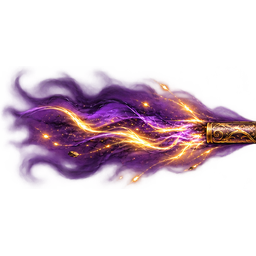
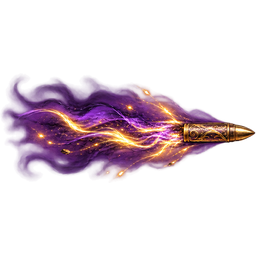
Export complete isolated gunslinger effects without cross-cell fragments

Changed region(s): [[0.0, 0.25, 1.0, 0.7188]]

diff --git a/tools/pack-gunslinger.py b/tools/pack-gunslinger.py
@@ -137,17 +137,39 @@ im=Image.open(SOURCE/'icons.png').convert('RGBA');w,h=im.size
 for i,name in enumerate(['disparo-sombrio','rajada-do-crepusculo','instinto-noturno','eclipse','dash']):
     r,c=divmod(i,3);side=min(w//3,h//2);x=round(c*w/3+(w/3-side)/2);y=round(r*h/2+(h/2-side)/2)
     im.crop((x,y,x+side,y+side)).resize((256,256),Image.Resampling.LANCZOS).save(folder/'icons'/f'{name}.png')
-im=Image.open(SOURCE/'vfx-v30.png').convert('RGBA');w,h=im.size
-for name,box in [('bullet',(0,0,.5,.5)),('muzzle',(.5,0,1,.475)),('impact',(0,.5,.5,1)),('aura',(.5,.5,1,1))]:
-    effect=im.crop(tuple(round(v*(w if i%2==0 else h)) for i,v in enumerate(box)))
-    bounds=effect.getchannel('A').point(lambda a:255 if a>8 else 0).getbbox()
-    if bounds:effect=effect.crop(bounds)
-    effect.thumbnail((256,256),Image.Resampling.LANCZOS);out=Image.new('RGBA',(256,256));out.alpha_composite(effect,((256-effect.width)//2,(256-effect.height)//2));out.save(folder/'vfx'/f'{name}.png')
-print('Pistoleira: six HD/native atlases, complete figures in four directions, five skill icons and four textured effects.')
+def effect_parts(name):
+    # Isolate complete painted effects before layout cuts, just as for bodies.
+    # The bullet tip crosses the nominal midpoint of the source sheet.
+    im=Image.open(SOURCE/(name+'.png')).convert('RGBA');w,h=im.size;a=im.getchannel('A');ap=a.load()
+    pending={y*w+x for y in range(h)for x in range(w)if ap[x,y]>8};groups=[]
+    while pending:
+        seed=pending.pop();q=[seed]
+        for n in q:
+            x,y=n%w,n//w
+            for nx,ny in ((x-1,y),(x+1,y),(x,y-1),(x,y+1)):
+                nn=ny*w+nx
+                if 0<=nx<w and 0<=ny<h and nn in pending:pending.remove(nn);q.append(nn)
+        groups.append(q)
+    mains=sorted(groups,key=len,reverse=True)[:4]
+    centers=[(sum(n%w for n in g)/len(g),sum(n//w for n in g)/len(g))for g in mains]
+    assigned=[[]for _ in mains]
+    for g in groups:
+        x=sum(n%w for n in g)/len(g);y=sum(n//w for n in g)/len(g)
+        nearest=min(range(4),key=lambda i:(x-centers[i][0])**2+(y-centers[i][1])**2)
+        assigned[nearest].extend(g)
+    result={}
+    for (cx,cy),g in zip(centers,assigned):
+        mask=Image.new('L',im.size);mp=mask.load()
+        for n in g:mp[n%w,n//w]=255
+        mask=mask.filter(ImageFilter.MaxFilter(3));part=im.copy()
+        part.putalpha(Image.composite(a,Image.new('L',im.size),mask))
+        part=part.crop(part.getchannel('A').getbbox())
+        result[(int(cy*2/h),int(cx*2/w))]=part
+    return result
 
-im=Image.open(SOURCE/'skills-v30.png').convert('RGBA');w,h=im.size
-for name,box in [('power',(0,0,.5,.5)),('volley',(.5,0,1,.5)),('powerimpact',(0,.5,.5,1)),('orbit',(.5,.5,1,1))]:
-    effect=im.crop(tuple(round(v*(w if i%2==0 else h))for i,v in enumerate(box)))
-    bounds=effect.getchannel('A').point(lambda a:255 if a>8 else 0).getbbox()
-    if bounds:effect=effect.crop(bounds)
-    effect.thumbnail((256,256),Image.Resampling.LANCZOS);out=Image.new('RGBA',(256,256));out.alpha_composite(effect,((256-effect.width)//2,(256-effect.height)//2));out.save(folder/'vfx'/f'{name}.png')
+for source,names in [('vfx-v30',['bullet','muzzle','impact','aura']),('skills-v30',['power','volley','powerimpact','orbit'])]:
+    parts=effect_parts(source)
+    for i,name in enumerate(names):
+        effect=parts[divmod(i,2)];effect.thumbnail((256,256),Image.Resampling.LANCZOS)
+        out=Image.new('RGBA',(256,256));out.alpha_composite(effect,((256-effect.width)//2,(256-effect.height)//2));out.save(folder/'vfx'/f'{name}.png')
+print('Pistoleira: six HD/native atlases, complete figures in four directions, five skill icons and eight isolated painted effects.')

diff --git a/README.md b/README.md
@@ -10,7 +10,7 @@ A pistoleira recebeu um novo modelo de corpo inteiro: rosto maior, tronco e quad
 
 - Repouso, oito fases de caminhada em cada direção, disparos alternados, buff, ferimento e derrota reconstruídos a partir do mesmo modelo. As figuras são exportadas inteiras, com altura e linha dos pés comuns às três classes.
 - Pares de mira/disparo alinhados à mesma mão e origem dos projéteis recalibrada para as novas pistolas.
-- Projéteis, clarões e impactos com núcleo violeta mais saturado e detalhes dourados. Tiros básicos e Disparo Sombrio maiores; impactos permanecem legíveis por mais tempo.
+- Projéteis, clarões e impactos com núcleo violeta mais saturado e detalhes dourados. Tiros básicos e Disparo Sombrio maiores; impactos permanecem legíveis por mais tempo. Cada efeito é isolado inteiro antes da exportação, evitando pontas cortadas ou pedaços de um efeito no outro.
 - Marca da Rajada e órbita do Eclipse com maior opacidade. O centro da aura continua aberto para permitir a leitura do personagem.
 
 As artes aprovadas do guerreiro e da arqueira, valores das habilidades, regras de combate e poções são preservados. Conferência no cliente real e 119 testes automatizados sem falhas; a avaliação artística final cabe ao jogador.
